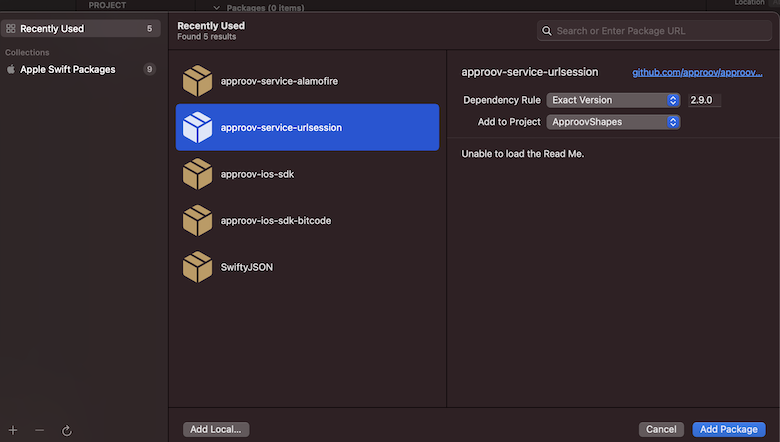
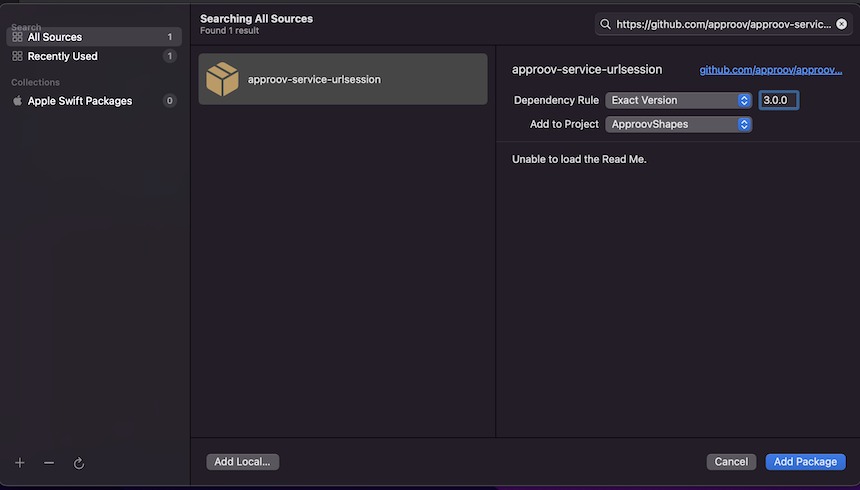
Update shapes app usage instructions

diff --git a/shapes-app/ApproovShapes/ViewController.swift b/shapes-app/ApproovShapes/ViewController.swift
@@ -21,29 +21,31 @@ class ViewController: UIViewController {
     
     @IBOutlet weak var statusImageView: UIImageView!
     @IBOutlet weak var statusTextView: UILabel!
-    
+    //*** MODIFY LINE TO USE APPROOV
     var defaultSession = URLSession(configuration: .default)
-    
+    //*** CHANGE THE LINE BELLOW FOR APPROOV USING SECURE STRINGS TO `shapes_api_key_placeholder`
+    let apiSecretKey = "yXClypapWNHIifHUWmBIyPFAm"
     
     override func viewDidLoad() {
         super.viewDidLoad()
+        //*** UNCOMMENT TO USE APPROOV
+        //try! ApproovService.initialize(config: "<enter-you-config-string-here>")
+        //*** UNCOMMENT THE LINE BELLOW FOR APPROOV USING SECRET PROTECTION
+        //ApproovService.addSubstitutionHeader(header: "Api-Key", prefix: nil)
     }
 
     override func viewDidAppear(_ animated: Bool) {
         super.viewDidAppear(animated)
     }
     
-    // check unprotected hello endpoint
-
+    // Check hello endpoint
     @IBAction func checkHello() {
         let helloURL = URL(string: "https://shapes.approov.io/v1/hello")!
-        
         // Display busy screen
         DispatchQueue.main.async {
             self.statusImageView.image = UIImage(named: "approov")
             self.statusTextView.text = "Checking connectivity..."
         }
-
         let task = defaultSession.dataTask(with: helloURL) { (data, response, error) in
             let message: String
             let image: UIImage?
@@ -83,12 +85,15 @@ class ViewController: UIViewController {
         }
         
         task.resume()
+        
     }
     
-    // check Approov-protected shapes endpoint
-
+    
+    // Check Approov-protected shapes endpoint
     @IBAction func checkShape() {
-        let shapesURL = URL(string: "https://shapes.approov.io/v2/shapes")!
+        //*** SHAPES ENDPOINT VERSION
+        let currentShapesEndpoint = "v2"
+        let shapesURL = URL(string: "https://shapes.approov.io/" + currentShapesEndpoint + "/shapes")!
 
         // Display busy screen
         DispatchQueue.main.async {

diff --git a/SHAPES-EXAMPLE.md b/SHAPES-EXAMPLE.md
@@ -5,7 +5,7 @@ This quickstart is written specifically for native iOS apps that are written in 
 ## WHAT YOU WILL NEED
 * Access to a trial or paid Approov account
 * The `approov` command line tool [installed](https://approov.io/docs/latest/approov-installation/) with access to your account
-* [Xcode](https://developer.apple.com/xcode/) version 12 installed (version 12.5 is used in this guide)
+* [Xcode](https://developer.apple.com/xcode/) version 13 installed (version 13.3 is used in this guide)
 * The contents of this repo
 * An Apple mobile device with iOS 10 or higher
 
@@ -39,11 +39,7 @@ This contacts `https://shapes.approov.io/v2/shapes` to get the name of a random 
 
 ## ADD THE APPROOV SERVICE URLSESSION
 
-Get the latest Approov SDK by using `swift package manager`. The repository located at `https://github.com/approov/approov-service-urlsession.git` includes as a dependency the closed source Approov SDK and includes branches pointing to the relevant Approov SDK release versions. The approov-service-nsurlsession is actually an open source wrapper layer that allows you to easily use Approov with URLSession. Install the dependency by selecting the `ApproovShapes` project in Xcode and then selecting `File`, `Swift Packages`, `Add Package Dependency`:
-
-![Add Package Repository](readme-images/add-package-repository.png)
-
-You will then have to select the relevan Approov SDK version you wish to use. To do so, select the `version` option and enter the relevant SDK version, in this case `2.9.0`:
+Get the latest Approov SDK by using `swift package manager`. The repository located at `https://github.com/approov/approov-service-urlsession.git` includes as a dependency the closed source Approov SDK and includes tags pointing to the relevant Approov SDK release versions. The `approov-service-urlsession` is actually an open source wrapper layer that allows you to easily use Approov with URLSession. Install the dependency by selecting the `ApproovShapes` project in Xcode and then selecting `File`, `Add Packages` and enter in the search box the url of the git repository `https://github.com/approov/approov-service-urlsession.git`. You will then have to select the relevan Approov SDK version you wish to use; each version is identified by a tag, with the main branch usually pointing to the latest version. Select the `version` option and enter the relevant SDK version, in this case `3.0.0`:
 
 ![Set SDK Version](readme-images/branch-select.png)
 
@@ -70,16 +66,30 @@ import ApproovURLSession
 ```
 
 Find the following line in `ViewController.swift` source file:
+
 ```swift
+//*** MODIFY LINE TO USE APPROOV
 var defaultSession = URLSession(configuration: .default)
 ```
-Replace `URLSession` with `ApproovURLSession` and remember to add the `approovSDKConfig` parameter. The Approov SDK needs a configuration string to identify the account associated with the app. You will have received this in your Approov onboarding email (it will be something like `#123456#K/XPlLtfcwnWkzv99Wj5VmAxo4CrU267J1KlQyoz8Qo=`).
+Replace `URLSession` with `ApproovURLSession`:
 
 ```swift
-var defaultSession = ApproovURLSession(configuration: .default, approovSDKConfig: "<enter-you-config-string-here>")
+var defaultSession = ApproovURLSession(configuration: .default)
 ```
 
-The `ApproovURLSession` class adds the `Approov-Token` header and also applies pinning for the connections to ensure that no Man-in-the-Middle can eavesdrop on any communication being made. 
+Now locate and uncomment the line inside the `viewDidLoad` function that initializes the `ApproovService` and remember to add the `config` parameter. The Approov SDK needs a configuration string to identify the account associated with the app. You will have received this in your Approov onboarding email (it will be something like `#123456#K/XPlLtfcwnWkzv99Wj5VmAxo4CrU267J1KlQyoz8Qo=`):
+
+```swift
+//*** UNCOMMENT TO USE APPROOV
+try! ApproovService.initialize(config: "<enter-you-config-string-here>")
+```
+
+The `ApproovURLSession` class adds the `Approov-Token` header and also applies pinning for the connections to ensure that no Man-in-the-Middle can eavesdrop on any communication being made. Lastly, make sure we are using the Approov protected endpoint for the shapes server. Find the `checkShape` function and change the line bellow the comment to point to `v3`:
+
+```swift
+//*** SHAPES ENDPOINT VERSION
+let currentShapesEndpoint = "v3"
+```
 
 ## REGISTER YOUR APP WITH APPROOV
 
@@ -97,7 +107,7 @@ $ approov registration -add ApproovShapes.ipa
 
 ## RUNNING THE SHAPES APP WITH APPROOV
 
-Install the `ApproovShapes.ipa` that you just registered on the device. You will need to remove the old app from the device first. If you are using an emulator, you will need to learn how ensure it [always passes](https://approov.io/docs/latest/approov-usage-documentation/#adding-a-device-security-policy) since the simulators are not real devices and you will not be able to succesfully authenticate the app.
+Install the `ApproovShapes.ipa` that you just registered on the device. You will need to remove the old app from the device first. If you are using an emulator, you will need to learn how to ensure it [always passes](https://approov.io/docs/latest/approov-usage-documentation/#adding-a-device-security-policy) since the simulators are not real devices and you will not be able to succesfully authenticate the app.
 
 If using Mac OS Catalina, simply drag the `ipa` file to the device. Alternatively you can select `Window`, then `Devices and Simulators` and after selecting your device click on the small `+` sign to locate the `ipa` archive you would like to install.
 
@@ -121,4 +131,51 @@ If you still don't get a valid shape then there are some things you can try. Rem
 * You can use a debugger or simulator and get valid Approov tokens on a specific device by ensuring it [always passes](https://approov.io/docs/latest/approov-usage-documentation/#adding-a-device-security-policy). As a shortcut, when you are first setting up, you can add a [device security policy](https://approov.io/docs/latest/approov-usage-documentation/#adding-a-device-security-policy) using the `latest` shortcut as discussed so that the `device ID` doesn't need to be extracted from the logs or an Approov token.
 * Consider using an [Annotation Policy](https://approov.io/docs/latest/approov-usage-documentation/#annotation-policies) during development to directly see why the device is not being issued with a valid token.
 * Use `approov metrics` to see [Live Metrics](https://approov.io/docs/latest/approov-usage-documentation/#live-metrics) of the cause of failure.
+* Inspect any exceptions for additional information
 
+## SHAPES APP WITH SECRET PROTECTION
+
+This section provides an illustration of an alternative option for Approov protection if you are not able to modify the backend to add an Approov Token check. We are still going to be using `https://shapes.approov.io/v1/shapes/` that simply checks for an API key, so please change line 85 so it points to `https://shapes.approov.io/v1/shapes/`. The `apiSecretKey` variable defined in line 27 should also be changed to `shapes_api_key_placeholder`, removing the actual API key out of the code:
+
+```swift
+//*** CHANGE THE LINE BELLOW FOR APPROOV USING SECURE STRINGS TO `shapes_api_key_placeholder`
+let apiSecretKey = "shapes_api_key_placeholder"
+```
+
+Next we enable the [Secure Strings](https://approov.io/docs/latest/approov-usage-documentation/#secure-strings) feature:
+
+```
+approov secstrings -setEnabled
+```
+
+> Note that this command requires an [admin role](https://approov.io/docs/latest/approov-usage-documentation/#account-access-roles).
+
+You must inform Approov that it should map `shapes_api_key_placeholder` to `yXClypapWNHIifHUWmBIyPFAm` (the actual API key) in requests as follows:
+
+```
+approov secstrings -addKey shapes_api_key_placeholder -predefinedValue yXClypapWNHIifHUWmBIyPFAm
+```
+
+> Note that this command also requires an [admin role](https://approov.io/docs/latest/approov-usage-documentation/#account-access-roles).
+
+Next we need to inform Approov that it needs to substitute the placeholder value for the real API key on the `Api-Key` header. You need to add the call at `shapes-app/ApproovShapes/ViewController.swift:34` and also keep the `ApproovURLSession` import at the start of the file.
+
+```swift
+// *** UNCOMMENT THE LINE BELOW FOR APPROOV USING SECRET PROTECTION ***
+ApproovService.addSubstitutionHeader(header: "Api-Key", prefix: nil)
+```
+
+This processes the headers and replaces in the actual API key as required.
+
+Build and run the app again to ensure that the `ApproovShapes.ipa` in the generated build outputs is up to date. You need to register the updated app with Approov. Using the command line register the app with:
+
+```
+approov registration -add ApproovShapes.ipa
+```
+Run the app again without making any changes to the app and press the `Get Shape` button. You should now see this (or another shape):
+
+<p>
+    <img src="readme-images/shapes-good.png" width="256" title="Shapes Good">
+</p>
+
+This means that the registered app is able to access the API key, even though it is no longer embedded in the app configuration, and provide it to the shapes request.
